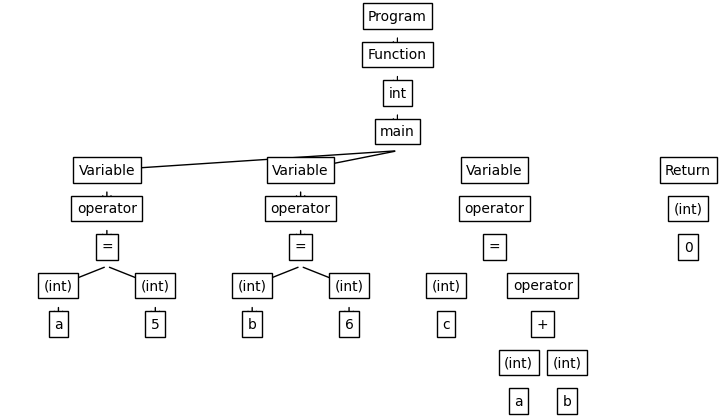
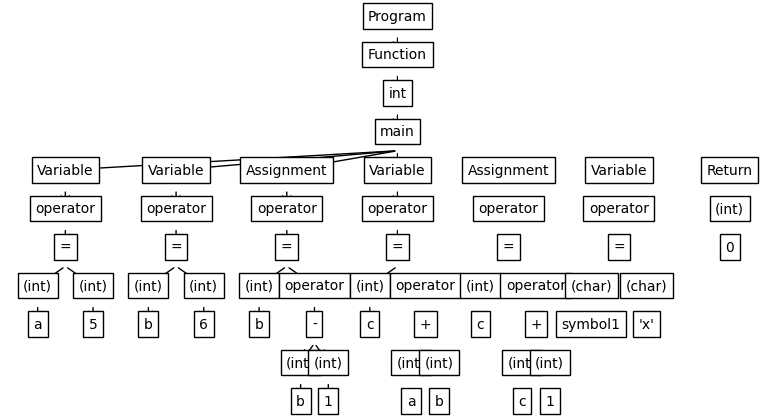
Fixed Code

diff --git a/src/test/lexertest.c b/src/test/lexertest.c
@@ -1,4 +1,3 @@
-
 int main(void){
 
     /*This is a multiline comment
@@ -6,10 +5,18 @@ int main(void){
     
     this should not show up at all*/
 
-    int a = 5;
-    int b = 6;
+    
 
+    int a = 5; 
+            //This is a single line comment
+    int b = 6;
+    b = b--;
+    
     int c = a + b;
+
+    c = c++;
+
+    char symbol1 = 'x';
 
     return 0; 
 }
